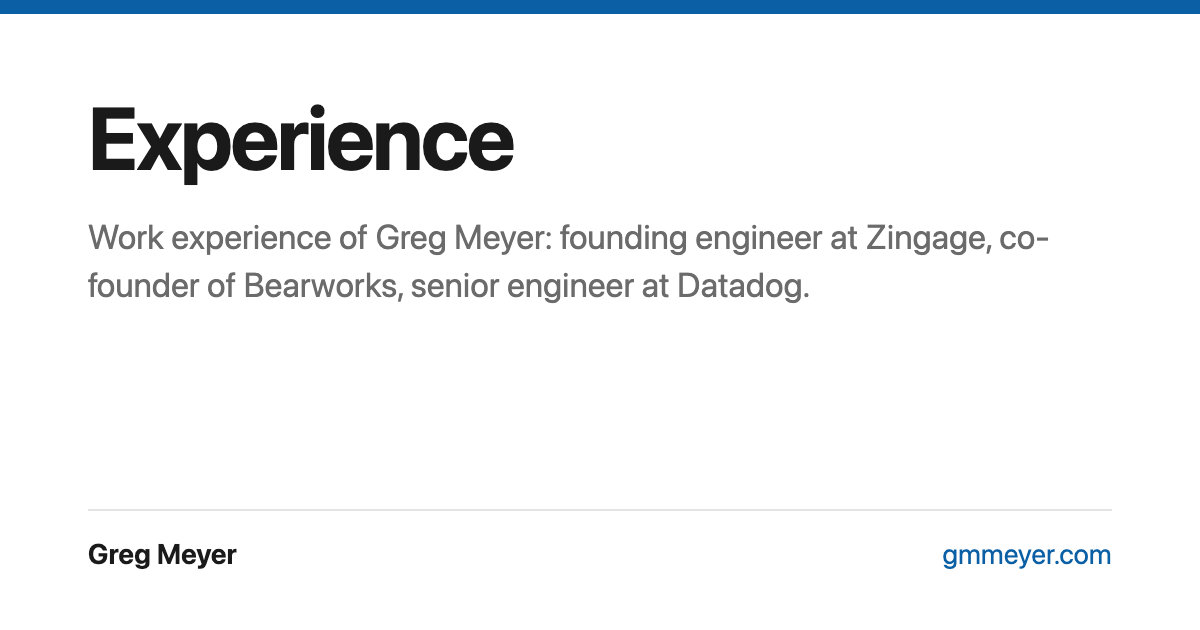
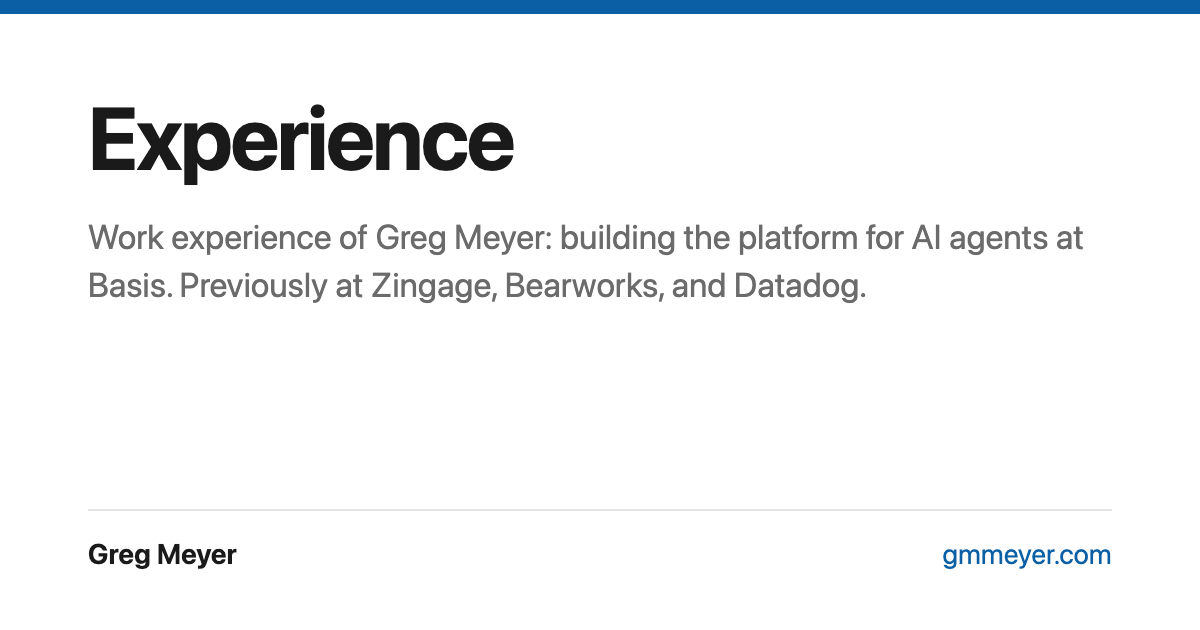
Add Basis role to resume and homepage (#10)

Changed region(s): [[0.0617, 0.3619, 0.925, 0.4825]]

diff --git a/index.html b/index.html
@@ -4,12 +4,12 @@
   <meta charset="utf-8">
   <meta name="viewport" content="width=device-width, initial-scale=1">
   <title>Greg Meyer — Software Engineer</title>
-  <meta name="description" content="Greg Meyer is a software engineer in New York. Founding engineer at Zingage, previously co-founder of Bearworks and senior engineer at Datadog.">
+  <meta name="description" content="Greg Meyer is a software engineer in New York. Helping build the platform for AI agents at Basis. Previously at Zingage, Bearworks, and Datadog.">
   <link rel="canonical" href="https://gmmeyer.com/">
   <meta property="og:type" content="website">
   <meta property="og:site_name" content="Greg Meyer">
   <meta property="og:title" content="Greg Meyer — Software Engineer">
-  <meta property="og:description" content="Greg Meyer is a software engineer in New York. Founding engineer at Zingage, previously co-founder of Bearworks and senior engineer at Datadog.">
+  <meta property="og:description" content="Greg Meyer is a software engineer in New York. Helping build the platform for AI agents at Basis. Previously at Zingage, Bearworks, and Datadog.">
   <meta property="og:url" content="https://gmmeyer.com/">
   <meta property="og:image" content="https://gmmeyer.com/img/og/home.png">
   <meta property="og:image:width" content="1200">
@@ -52,11 +52,11 @@
         "name": "Greg Meyer",
         "url": "https://gmmeyer.com/",
         "jobTitle": "Software Engineer",
-        "description": "Software engineer in New York. Founding engineer at Zingage, previously co-founder of Bearworks and senior engineer at Datadog.",
+        "description": "Software engineer in New York. Helping build the platform for AI agents at Basis. Previously at Zingage, Bearworks, and Datadog.",
         "worksFor": {
           "@type": "Organization",
-          "name": "Zingage",
-          "url": "https://zingage.com"
+          "name": "Basis",
+          "url": "https://getbasis.ai/"
         },
         "homeLocation": {
           "@type": "Place",
@@ -76,7 +76,7 @@
 
 <header>
   <h1>Greg Meyer</h1>
-  <p class="tagline">Software engineer in New York, NY</p>
+  <p class="tagline">Building the platform for AI agents at <a href="https://getbasis.ai/">Basis</a></p>
   <nav class="contact">
     <a href="./" aria-current="page">Home</a>
     <a href="experience.html">Experience</a>
@@ -90,9 +90,10 @@
   <p>
     I'm a software engineer with a long open-source and corporate track record —
     from scaling Datadog's Agent through hypergrowth to co-founding a startup and
-    taking it from zero to paying customers. Today I'm a founding engineer at
-    <a href="https://zingage.com">Zingage</a>, building AI agents that run
-    operations for home care agencies.
+    taking it from zero to paying customers. Today I'm at
+    <a href="https://getbasis.ai/">Basis</a>, helping build the platform that
+    its AI agents run on. Previously, I was a founding engineer at
+    <a href="https://zingage.com">Zingage</a>, building AI agents for home care operations.
   </p>
   <p>
     Outside of work I've been having fun learning how to train models from scratch and how to do post training. 

diff --git a/experience.html b/experience.html
@@ -4,12 +4,12 @@
   <meta charset="utf-8">
   <meta name="viewport" content="width=device-width, initial-scale=1">
   <title>Experience — Greg Meyer</title>
-  <meta name="description" content="Work experience of Greg Meyer: founding engineer at Zingage, co-founder of Bearworks, senior engineer at Datadog.">
+  <meta name="description" content="Work experience of Greg Meyer: building the platform for AI agents at Basis. Previously at Zingage, Bearworks, and Datadog.">
   <link rel="canonical" href="https://gmmeyer.com/experience.html">
   <meta property="og:type" content="website">
   <meta property="og:site_name" content="Greg Meyer">
   <meta property="og:title" content="Experience — Greg Meyer">
-  <meta property="og:description" content="Work experience of Greg Meyer: founding engineer at Zingage, co-founder of Bearworks, senior engineer at Datadog.">
+  <meta property="og:description" content="Work experience of Greg Meyer: building the platform for AI agents at Basis. Previously at Zingage, Bearworks, and Datadog.">
   <meta property="og:url" content="https://gmmeyer.com/experience.html">
   <meta property="og:image" content="https://gmmeyer.com/img/og/experience.png">
   <meta property="og:image:width" content="1200">
@@ -40,11 +40,21 @@
 
   <div class="job">
     <div class="job-head">
-      <h3>Zingage <span class="role">· Founding Engineer</span></h3>
-      <span class="when">2025 – present</span>
+      <h3><a href="https://getbasis.ai/">Basis</a> <span class="role">· Software Engineer</span></h3>
+      <span class="when">2026 – present</span>
     </div>
     <ul>
-      <li>Building the AI agents that automate home-care operations — scheduling, call-outs, and care coordination.</li>
+      <li>Helping build the platform that Basis's AI agents run on.</li>
+    </ul>
+  </div>
+
+  <div class="job">
+    <div class="job-head">
+      <h3>Zingage <span class="role">· Founding Engineer</span></h3>
+      <span class="when">2025 – 2026</span>
+    </div>
+    <ul>
+      <li>Built the AI agents that automate home-care operations — scheduling, call-outs, and care coordination.</li>
       <li>Built a voice agent that scales to thousands of calls per day.</li>
       <li>Worked to build out our official partnership with <a href="https://elevenlabs.io/blog/zingage">ElevenLabs</a>.</li>
     </ul>

diff --git a/_cards/build.py b/_cards/build.py
@@ -30,8 +30,8 @@ OVERRIDES = {
     "index.html": {
         "title": NAME,
         "kicker": "Software engineer · New York",
-        "desc": "Founding engineer at Zingage. Previously co-founder of "
-        "Bearworks and senior engineer at Datadog.",
+        "desc": "Helping build the platform for AI agents at Basis. "
+        "Previously at Zingage, Bearworks, and Datadog.",
         "byline": "",
     },
 }

diff --git a/README.md b/README.md
@@ -1,6 +1,6 @@
 # Hi, I'm Greg Meyer 👋
 
-I'm a software engineer in New York. I'm currently a founding engineer at [Zingage](https://zingage.com), building AI agents that run operations for home care agencies. Before that I co-founded Bearworks, and before that I helped scale the Datadog Agent through hypergrowth.
+I'm a software engineer in New York. I'm currently at [Basis](https://getbasis.ai/), helping build the platform that its AI agents run on. Previously, I was a founding engineer at Zingage, co-founded Bearworks, and helped scale the Datadog Agent through hypergrowth.
 
 Outside of work I train small models from scratch, practice post-training, and put the fun ones in the browser.
 
@@ -19,7 +19,8 @@ Outside of work I train small models from scratch, practice post-training, and p
 
 | Company | Role | Years |
 |---|---|---|
-| Zingage | Founding Engineer | 2025 – present |
+| [Basis](https://getbasis.ai/) | Software Engineer | 2026 – present |
+| Zingage | Founding Engineer | 2025 – 2026 |
 | Bearworks | Co-Founder & CTO | 2022 – 2025 |
 | Gantry | Software Engineer | 2021 – 2022 |
 | Datadog | Senior Software Engineer | 2016 – 2021 |
